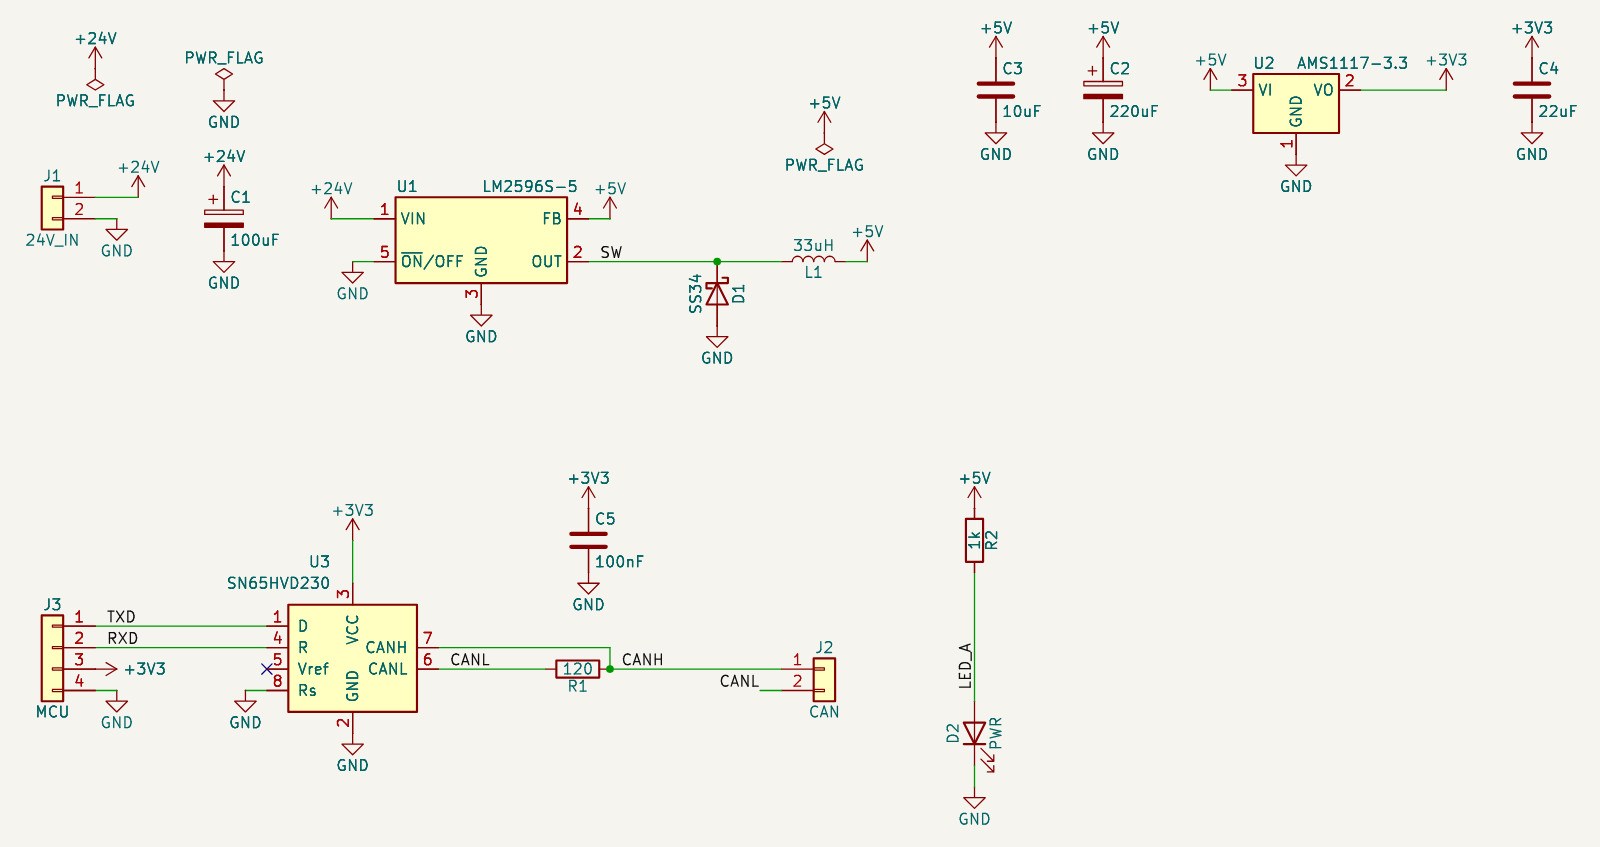
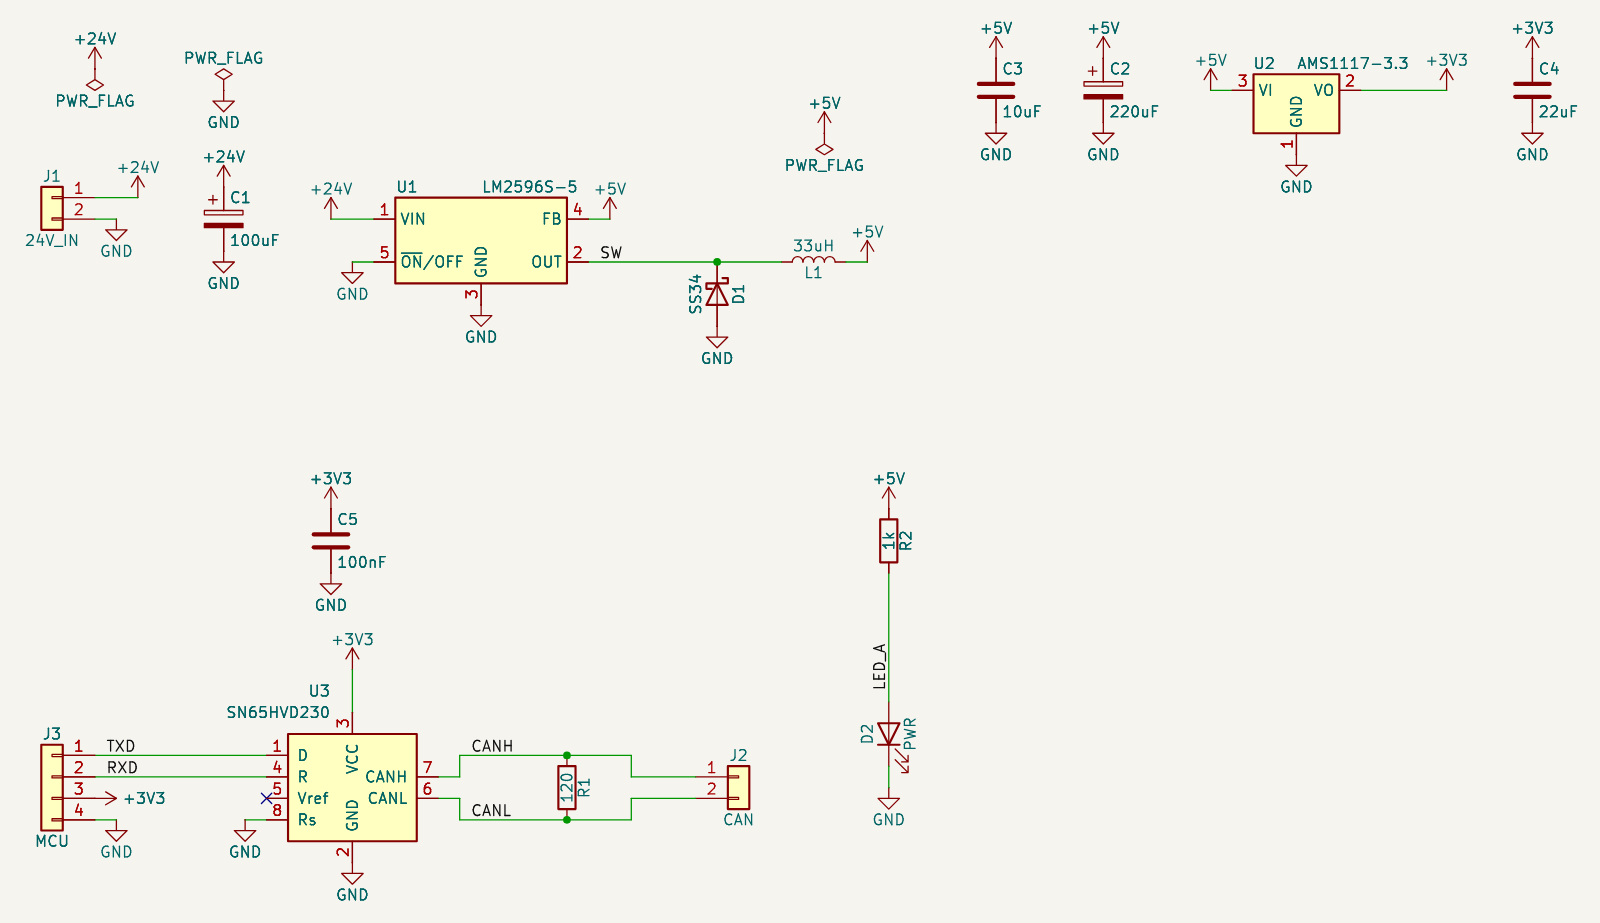
CAN block: termination resistor between the lines, connector in line; plan v1.6
- A two-pin part joining two pins on the same side of an IC (a CAN
  termination resistor between CANH and CANL) now stands across both lines,
  centred between them. The lines reach its ends and run straight on to the
  connector beyond it, so IC, resistor and connector form one wired block
  with one name label per net (before, CANL to the connector needed a
  separate label).
- A part only on rails next to a top or bottom supply pin may also go right
  beside that pin (U3's decoupling capacitor sits by its +3V3).
- Plan v1.6 and README: Korean AI output, revisions from review, schematic
  drawing, Claude provider.

Claude-Session: https://claude.ai/code/session_015NDH6qXru7ULG3ccKYdLgY

diff --git a/kicad_adapter/layout.py b/kicad_adapter/layout.py
@@ -332,20 +332,35 @@ def _block(key: str, members: list[str], anchored: bool, ctx: _Ctx) -> Group:
     placed[key] = (0.0, 0.0, r0)
     boxes[key] = ctx.extent_of(key, r0, q0)
 
-    def plan(c: str, cpin: str, d: Dir) -> tuple[int | None, bool, bool]:
-        """Rotation and mirroring for a member hanging off a pin pointing ``d``, and whether it stands across
-        the line."""
+    def plan(c: str, cpin: str, owner: str, opin: str, d: Dir) -> tuple[int | None, bool, bool, str | None]:
+        """Rotation and mirroring for a member hanging off ``owner``'s pin ``opin`` (pointing ``d``), whether it
+        stands across the line, and for a bridge the owner's other pin it spans to."""
         s = pin(c, cpin)
         back = (-d[0], -d[1])
         if two_opposite(c):
             o = next(p for p in pins[c] if p.number != cpin)
             n2 = net(c, o.number)
+            if wired(n2) and n2 != net(owner, opin):
+                # A bridge between two pins on the same side of the owner (a termination resistor between
+                # CANH and CANL): it stands across both lines, centred between them, so the lines can reach
+                # its ends and still run straight on to a connector beyond it.
+                a, _ = abs_pin(owner, opin)
+                for q in pins[owner]:
+                    if q.number == opin or net(owner, q.number) != n2:
+                        continue
+                    b, qd = abs_pin(owner, q.number)
+                    if qd != d:
+                        continue
+                    gap = (b[1] - a[1]) if d[1] == 0 else (b[0] - a[0])
+                    if gap:
+                        toward = (0, 1 if gap > 0 else -1) if d[1] == 0 else (1 if gap > 0 else -1, 0)
+                        return orient(o.out, toward), False, True, q.number
             if n2 in ctx.upright and d[1] == 0 and (is_ground_name(n2) or ctx.kinds.get(c) == "rc"):
-                return orient(o.out, ctx.upright[n2]), False, True
-            return orient(s.out, back), False, False
+                return orient(o.out, ctx.upright[n2]), False, True, None
+            return orient(s.out, back), False, False, None
         if len(pins[c]) == 1 or same_side(c):
-            return (*facing(c, s, back), False)
-        return None, False, False
+            return (*facing(c, s, back), False, None)
+        return None, False, False, None
 
     # Wired members, nearest first; at one pin, parts across the line come before the one continuing it.
     queue = [key]
@@ -356,10 +371,10 @@ def _block(key: str, members: list[str], anchored: bool, ctx: _Ctx) -> Group:
             if not kids:
                 continue
             anchor, d = abs_pin(owner, p.number)
-            plans = {c: plan(c, parent[c][2], d) for c in kids}
+            plans = {c: plan(c, parent[c][2], owner, p.number, d) for c in kids}
             for c in sorted(kids, key=lambda c: (not plans[c][2], kids.index(c))):
                 rotation = plans[c][0] if plans[c][0] is not None else 0
-                mirror = plans[c][1]
+                mirror, twin = plans[c][1], plans[c][3]
                 cpin = parent[c][2]
                 quiet = {cpin: 0.0}
                 for q in pins[c]:
@@ -368,7 +383,16 @@ def _block(key: str, members: list[str], anchored: bool, ctx: _Ctx) -> Group:
                 e = ctx.extent_of(c, rotation, quiet, mirror)
                 rel, _ = _turned(pin(c, cpin), rotation, mirror)
                 skip = {owner} | {x for s in kids if s in placed and plans[s][2] for x in (s, f"~{s}")}
-                spot = search(e, anchor, d, rel, True, skip)
+                if twin is not None:  # centre the bridge between the two pin rows
+                    b, _ = abs_pin(owner, twin)
+                    o_rel, _ = _turned(next(q for q in pins[c] if q.number != cpin), rotation, mirror)
+                    i = 1 if d[1] == 0 else 0
+                    offset = snap((b[i] - anchor[i]) / 2 - ((rel[i] + o_rel[i]) / 2 - rel[i]))
+                    start = ((anchor[0], round(anchor[1] + offset, 4)) if i
+                             else (round(anchor[0] + offset, 4), anchor[1]))
+                    spot = search(e, start, d, rel, False, skip)
+                else:
+                    spot = search(e, anchor, d, rel, True, skip)
                 put(c, rotation, e, spot, mirror)
                 if spot is not None:  # keep the straight wire's path free for later parts
                     end = (spot[0] + rel[0], spot[1] + rel[1])
@@ -393,9 +417,9 @@ def _block(key: str, members: list[str], anchored: bool, ctx: _Ctx) -> Group:
             continue
         anchor, d = abs_pin(*found)
         sides = [(anchor, d)]
-        if d[0] == 0:  # a pin on top or bottom: beside the owner rather than beyond its power symbol
+        if d[0] == 0:  # a pin on top or bottom: also try beside the owner; the closest spot wins
             ob = boxes[found[0]]
-            sides = [((ob[2], anchor[1]), (1, 0)), ((ob[0], anchor[1]), (-1, 0))]
+            sides += [((ob[2], anchor[1]), (1, 0)), ((ob[0], anchor[1]), (-1, 0))]
         options = []
         for side_anchor, sd in sides:
             mirror = False
@@ -407,7 +431,8 @@ def _block(key: str, members: list[str], anchored: bool, ctx: _Ctx) -> Group:
                                    key=lambda q: is_ground_name(net(m, q.number)))
                 rotation = orient(rail_pins[0].out, ctx.upright[net(m, rail_pins[0].number) or ""]) or 0
             e = ctx.extent_of(m, rotation, {}, mirror)
-            rel = (e[0] if sd[0] > 0 else e[2], (e[1] + e[3]) / 2)
+            rel = (e[0] if sd[0] > 0 else e[2] if sd[0] < 0 else (e[0] + e[2]) / 2,
+                   e[1] if sd[1] > 0 else e[3] if sd[1] < 0 else (e[1] + e[3]) / 2)
             spot = search(e, side_anchor, sd, rel, False, set(), step=STEP)
             if spot is not None:
                 options.append((scores[spot], len(options), rotation, mirror, e, spot))

diff --git a/tests/test_schematic.py b/tests/test_schematic.py
@@ -494,3 +494,19 @@ def test_power_flag_where_a_series_part_feeds_a_rail(library):
     g = generate_schematic(circuit, library)
     # +12V: power symbol only (a power input) fed by the connector; +5V: fed through R1; +3V3 is driven by U1.
     assert sorted(g.power_flags) == ["+12V", "+5V", "GND"]
+
+
+def test_termination_resistor_bridges_the_lines_and_the_connector_lines_up(library):
+    """CAN block: U1 CANH/CANL run straight on to the bus connector J1, and the 120 ohm R1 stands across
+    both lines between them, so the whole block is wired with one name label per net."""
+    from .circuits import can_node
+
+    g = generate_schematic(can_node(), library)
+    pins = {(a.reference, a.pin): (a.x, a.y) for a in g.anchors}
+    canh, canl = pins[("U1", "7")], pins[("U1", "6")]
+    assert pins[("J1", "1")][1] == canh[1] and pins[("J1", "2")][1] == canl[1]
+    r_top, r_bottom = sorted((pins[("R1", "1")], pins[("R1", "2")]), key=lambda p: p[1])
+    assert r_top[0] == r_bottom[0] and canh[0] < r_top[0] < pins[("J1", "1")][0]
+    assert r_top[1] < min(canh[1], canl[1]) and r_bottom[1] > max(canh[1], canl[1])
+    labels = [unquote(lbl[1]) for lbl in children(sexpr.parse(g.text), "label")]
+    assert labels.count("CANH") == 1 and labels.count("CANL") == 1

diff --git a/README.md b/README.md
@@ -1,7 +1,7 @@
 # AI Circuit Studio
 
 자연어 회로 요구사항 → AI 설계안 → 사용자 승인 → Circuit IR(JSON) → Markdown 문서 + KiCad 회로도를 만드는 Windows 우선 데스크톱 앱입니다.
-기획서는 [`docs/AI_Circuit_Studio_Development_Plan.md`](docs/AI_Circuit_Studio_Development_Plan.md)(v1.5)에 있습니다.
+기획서는 [`docs/AI_Circuit_Studio_Development_Plan.md`](docs/AI_Circuit_Studio_Development_Plan.md)(v1.6)에 있습니다.
 궁극적인 목표는 **하나의 입력 창**에서 회로도, 아트웍(PCB), 펌웨어까지 다루는 것입니다(기획서 1장 제품 비전).
 
 ![AI Circuit Studio — 회로도·검증 화면](docs/images/phase1-schematic.png)
@@ -15,6 +15,7 @@
 | Phase 1.5 — 보드·페이지, 가져오기, 보유 자재 | ✅ 완료 | 프로젝트→보드→페이지, PDF 회로도 카피(회로도 MD 가져오기 + AI 변환 옵션), 보유 자재 우선 사용 ([보고서](docs/phase1_5-report.md)) |
 | Phase 1.6 — 데이터시트 | ✅ 완료 | 제조사가 확실한 부품의 데이터시트 수집(KiCad 심볼 링크·직접 올리기), 요약 MD, 핀맵·전압·외부 부품 대조 ([보고서](docs/phase1_6-report.md)) |
 | Phase 2 — 변경 흐름과 AI 설계·검토 | ✅ 완료 | 요구사항 → AI 회로 설계 → 제안(비교 표·KiCad 검사·AI 검토) → 승인 ([보고서](docs/phase2-report.md)) |
+| Phase 2 이후 개선 | ✅ 완료 | AI 출력 한국어, 검토 반영 수정안, 읽기 쉬운 회로도(블록 배치·전원 심볼·직접 배선), Claude 공급자 ([회로도 예](docs/images/schematic-auto-layout.png)) |
 | Phase 3 — 엔지니어링 템플릿 | 다음 | 다중 유닛 심볼, 검토된 회로 템플릿, 엔지니어 검토 기록 |
 
 ## 지금 할 수 있는 것
